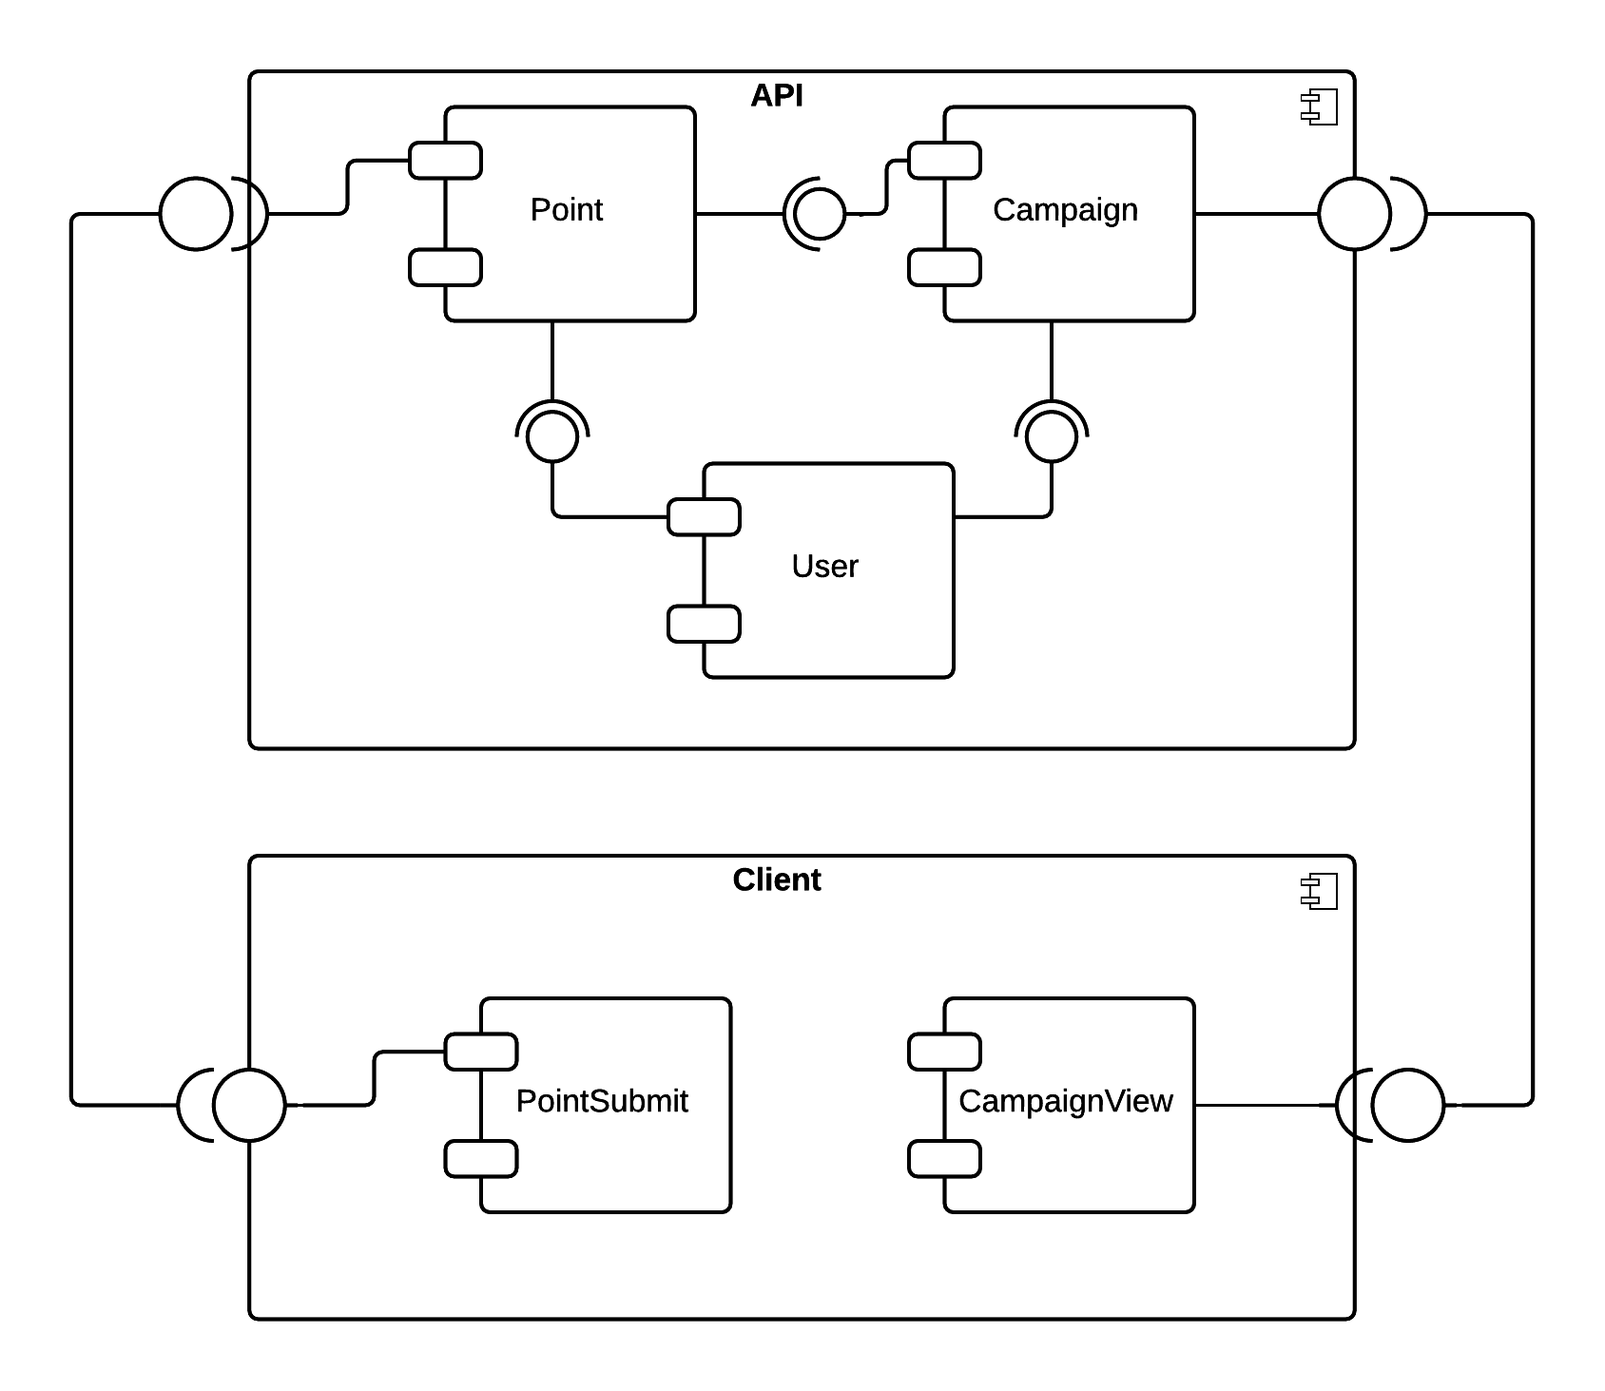
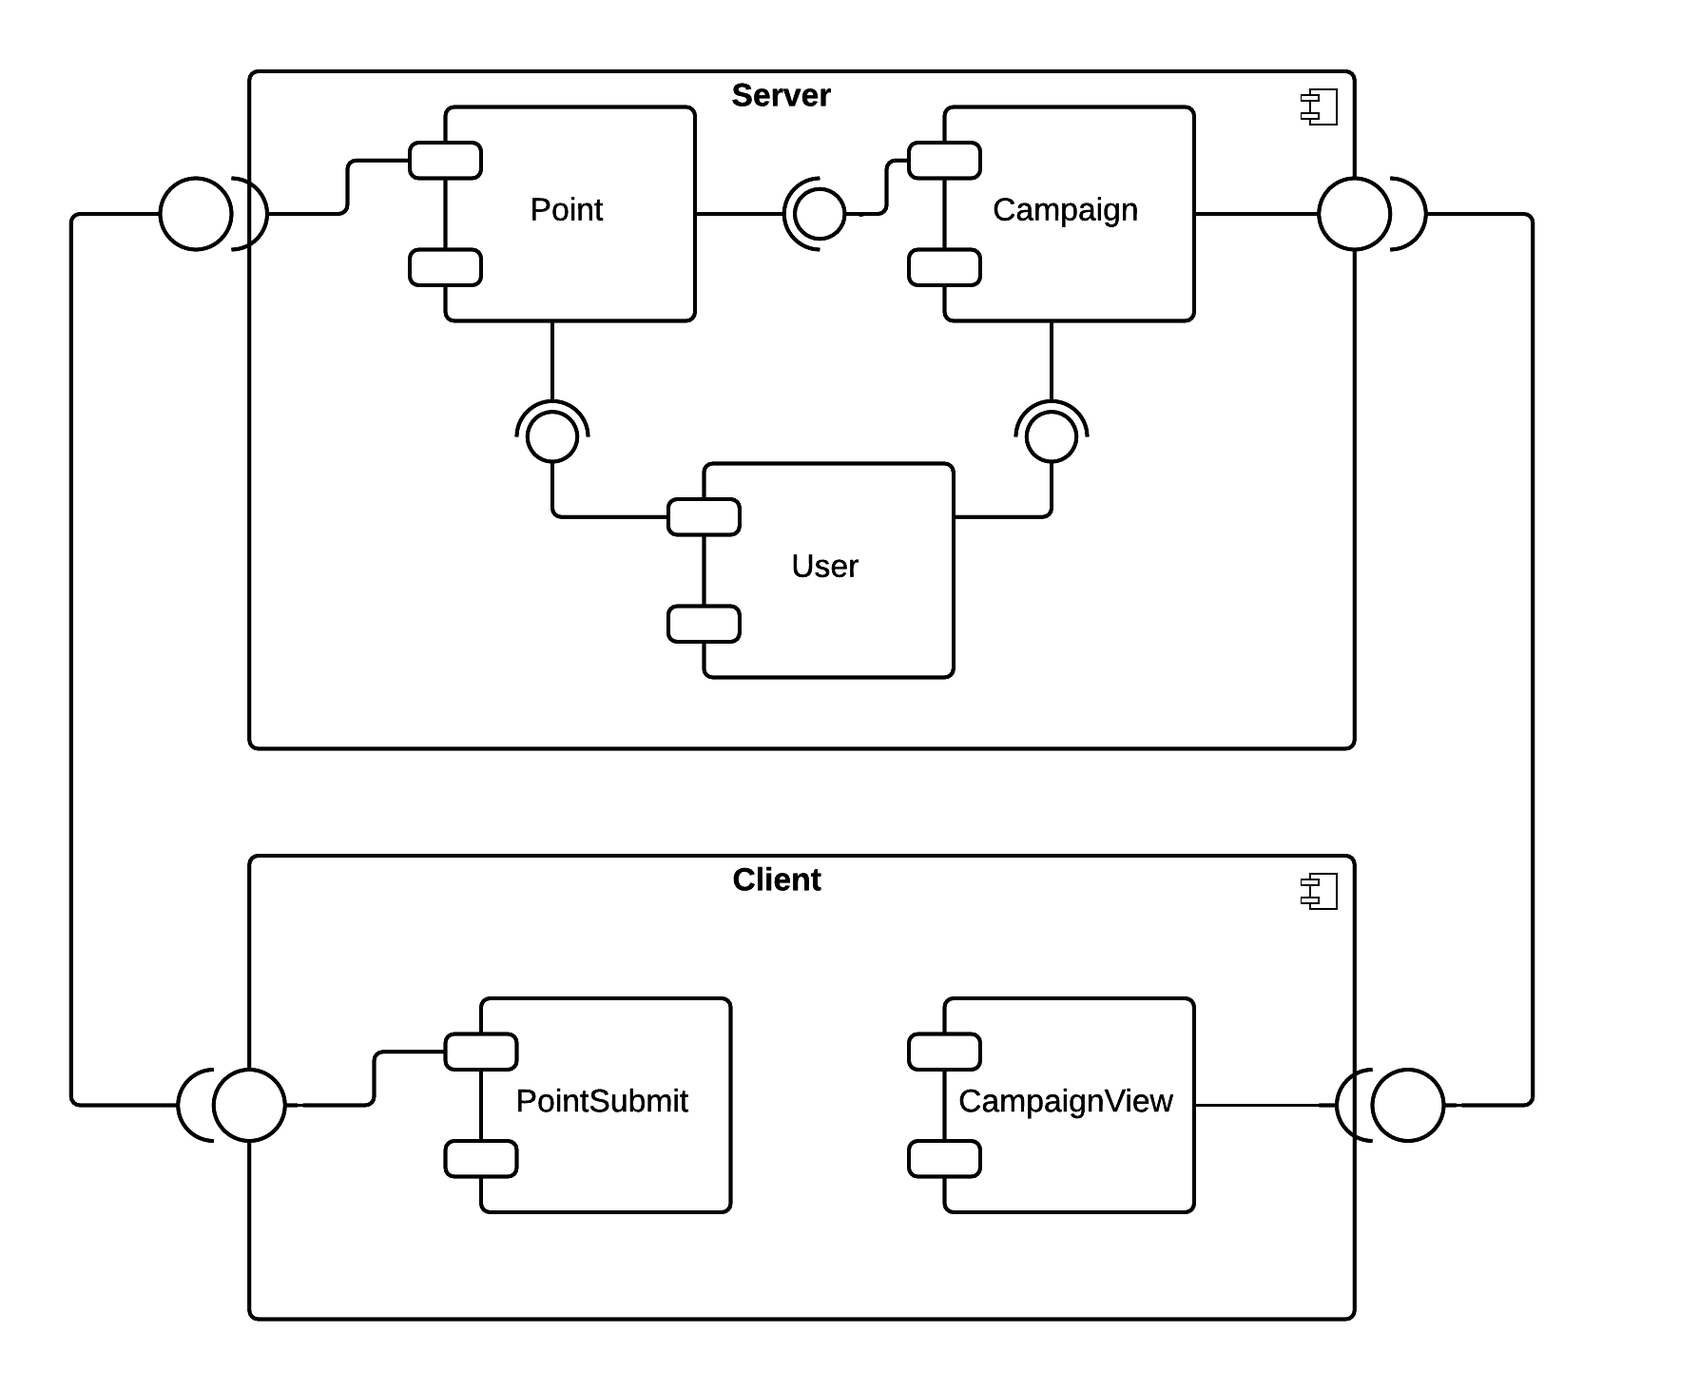
More dissertation writing

diff --git a/doc/Croud.tex b/doc/Croud.tex
@@ -16,8 +16,7 @@
 %\usepackage[margin=1.5in]{geometry}
 \usepackage{todonotes}
 
-\let\oldsection\section
-\renewcommand\section{\clearpage\oldsection}
+\newcommand\ssection{\clearpage\section}
 
 \newcommand{\pitem}[1]{
 	\item{\textbf{#1}}
@@ -32,8 +31,11 @@
 	\maketitle
 
 	\tableofcontents
+	\listoffigures
+	\listoftables
+	\listoflistings
 
-	\section*{Abstract}
+	\ssection*{Abstract}
 	\label{sec:summary}
 		Geographical data collection is a commonly-repeated task in scientific research, political campaigning, land administration and humanitarian projects. At the moment, there are a number of solutions for organisations wishing to go about this type of data collection, from using existing frameworks to commissioning bespoke software. However, these either require significant technical knowledge; are overly generic and are not specifically suited to collecting geographic point data; or are expensive to implement.
 
@@ -43,7 +45,7 @@
 
 		In evaluating the framework, it is shown that it could be applied to collecting data on potholes just as easily as it could be used to help volunteers map out crisis-prone areas of the world.
 
-	\section{Introduction}
+	\ssection{Introduction}
 	\label{sec:introduction}
 		\subsection{Problem}
 		Data collection is a vital and very common task in scientific research and beyond. Computer science, as well as often having internal data gathering requirements of its own, has a part to play in the wider scientific community by providing tools to make the process more accurate, wide-reaching and time-efficient. As is often the case, the need for research tools has historically driven the development of powerful and influential technologies\cite{haggerty_spinoff_1991}. Perhaps the most indicative example of this is the internet: preceded by \emph{ARPANET} over which the first messages were sent between the \emph{University of California, Los Angeles} and the \emph{Stanford Research Institute} in 1969\cite{_arpanet_????}. The first nodes on these early networks were in universities, for whom the ability to send ``electronic mail'' revolutionised the ability to collaborate on research and share information\cite{benfield_internet-based_2006}. Indeed, the internet could be considered computer science's greatest gift to the gathering of data due to the mass and effortless communication available to scientists all over the world\cite{benfield_internet-based_2006}. Of course, the internet is just a transport medium and the technologies built on top have also been of great assistance to scientists: networked email in 1971\cite{_first_????}; the \emph{Hypertext Transfer Protocol} and \emph{World Wide Web} in 1989\cite{_http_????}; and the omni-present wireless internet that is currently available over cell towers.
@@ -93,12 +95,12 @@
 		In the field of CSCW, the categorisation of work is often imagined as ``four quadrants''\cite{johansen_groupware:_1988} separated by the work's distribution over space and time: same place, same time; same place, different time; different time, same place; and different time, different place. This can be applied to crowdsourcing to assist in categorising these specific forms of CSCW as showin in Table~\ref{tab:quad}\cite{erickson_geocentric_2010}.
 
 		\begin{table}[ht]
-			\begin{tabular}{ | l || l | l | }
+			\begin{tabularx}{\textwidth}{ | l || X | X | }
 				\hline
 				                        & \textbf{Same Place}            & \textbf{Different Place} \\ \hhline{|=#=|=|}
 				\textbf{Same Time}      & Audience-centric Crowdsourcing & Event-centric Crowdsourcing \\ \hline
 				\textbf{Different Time} & Geocentric Crowdsourcing       & Global Crowdsourcing \\ \hline
-			\end{tabular}
+			\end{tabularx}
 			\caption{Four quadrant model applied to crowdsourcing\cite{erickson_geocentric_2010}}
 			\label{tab:quad}
 		\end{table}
@@ -211,7 +213,7 @@
 			\end{itemize}
 		\end{enumerate}
 
-	\section{Framework Design}
+	\ssection{Framework Design}
 	\label{sec:architecture}
 		As a result of the analysis and background above, a framework could be produced to provide sufficient functionality to replace the bespoke implementations so far. The framework would need to consist primarily of an API that can receive submitted data, perform all the necessary back-end organisation of that data, and expose a way of interacting with inbuilt data. On top of that, it will be necessary to construct a number of front-ends to interact with the API - a web-based and a mobile application.
 
@@ -221,7 +223,7 @@
 
 		This section contains a detailed and quantifiable list of the requirements for the framework, built from the common functionalities of the analysed projects. To simplify accounting for each requirement in the implementation of the project, each requirement follows a continuous count, despite being split across categories.
 
-		There are three data models around which the framework is based. Firstly, the User is the authenticated account and stable identity for anyone using the service. Although they are structurally the same, there are nonetheless two separate ``attitudes'' of User in the framework - campaign creators and campaign contributors. Throughout this section, where appropriate the requirements for each type will be differentiated with $\star$ for creator and $\dagger$ for contributor.
+		There are three data models around which the framework is based. Firstly, the User is the authenticated account and stable identity for anyone using the service. Although they are structurally the same, there are nonetheless two separate ``attitudes'' of User in the framework - campaign creators and campaign contributors. Throughout this section, where appropriate the requirements for each type will be differentiated with ``$\star$'' for creator and ``$\dagger$'' for contributor.
 
 		Secondly, the Campaign is the name for the metadata around a campaign of data collection. For example, it contains a name for the campaign, a description of the data it is collecting and all other information about the campaign itself.
 
@@ -311,7 +313,7 @@
 			\label{fig:component-diagram}
 		\end{figure}
 
-		In Figure \ref{fig:component-diagram}, the relationship between components in the project is described. The framework follows a server-client architecture.
+		In Figure \ref{fig:component-diagram}, the relationship between components in the project is described. The framework follows a server-client architecture. Each of these systems contain a set of subcomponents described below.
 
 		\subsubsection{Server}
 
@@ -331,6 +333,8 @@
 
 		\subsection{How it works}
 
+		Note that for all of the following sequences, the actions can be carried out on both desktop and mobile using the same steps. This is because the web client can be compiled directly to a mobile application using Apache Cordova\cite{_apache_????}.t
+
 		\subsubsection{Registering}
 		To register, the user follows a link from the home page to a ``Sign up'' form, where they fill information such as their name, required username, email address and password. If the form has been filled in correctly, an account will be created for that user and they will be automatically logged in.
 
@@ -349,7 +353,7 @@
 		\subsubsection{Viewing a Point}
 		When a marker is clicked, a page containing all the information for a Point is displayed. The page contains a map with just the marker visible, and a table of the information submitted along with the co-ordinate. If, for example, the information includes an uploaded picture, the picture will be visible in this table.
 
-	\section{Implementation}
+	\ssection{Implementation}
 	\label{sec:implementation}
 
 		The code is tracked using the \emph{Git} revision control system and is hosted on \emph{Github}. It can be found at \href{http://github.com/gausie/croud}{\nolinkurl{http://github.com/gausie/croud}}. The software is also running and available to be used at \href{http://croud.io}{\nolinkurl{http://croud.io}}.
@@ -377,7 +381,7 @@
 
 		\subsection{Schema}
 
-		As \emph{MongoDB} uses dynamic schemas, these are not necessarily how documents stored in each collection might look. Instead, the schema here is the framework of a model described in JavaScript, and as a result contains some callbacks as values (which would not be valid in plain JSON).
+		As \emph{MongoDB} uses dynamic schemas, these are not necessarily how documents stored in each collection might look. Instead, the schema here is the framework of a model described in JavaScript, and as a result contains some callbacks as values (which would not be valid in plain JSON). In order to avoid repetition, the schemas are not annotated.
 
 		\subsubsection{User}
 
@@ -454,6 +458,8 @@
 }
 		\end{minted}
 
+		This schema for the User model defines: a first and last name; a display name, an email address; a username; a password and salt;  a list of campaign memberships; data to handle social media logins; some data for resetting passwords; and update and creation times for the model.
+
 		\subsubsection{Campaign}
 
 		\begin{minted}[frame=single,fontsize=\scriptsize]{js}
@@ -514,9 +520,12 @@
 }
 		\end{minted}
 
-		The ``fields'' field is a JSON sub-structure built from the data required for each campaign. For example, it could contain a value such as
+		This schema for the Campaign model defines: a name and description for the Campaign; a central location (optimized for MongoDB); a collection of fields; a duration; whether it is private and approval is required; which (if any) field should be used as a marker for Points; the days (if required) after which a Point is marked as stale; the owner; and the date on which it was created.
 
-		\begin{minted}[frame=single,fontsize=\scriptsize]{json}
+		The ``fields'' field is a JSON sub-structure built from the data required for each campaign. For example, a simplified campaign to collect cartographic information in a poorly mapped area could contain a value such as Listing~\ref{lst:campaign-schema-fields}.
+
+		\begin{listing}[H]
+			\begin{minted}[frame=single,fontsize=\scriptsize]{json}
 [
     {
         "options" : [ 
@@ -526,7 +535,7 @@
             }, 
             {
                 "icon" : "search",
-                "name" : "Toll Both"
+                "name" : "Toll Booth"
             }
         ],
         "required" : true,
@@ -539,7 +548,10 @@
         "name" : "Picture"
     }
 ]
-		\end{minted}
+			\end{minted}
+			\caption{These fields would mean a required multiple choice option with the name ``Point of Interest'' and the options ``Water'' and ``Toll Booth''. with ``gamepad'' and ``search'' icons respectively. This would be followed by an optional image field titled ``Picture''.}
+			\label{lst:campaign-schema-fields}
+		\end{listing}
 
 		\subsubsection{Point}
 
@@ -575,20 +587,26 @@
 }
 		\end{minted}
 
-		The ``data'' field is a JSON sub-structure matching the ``fields'' field of the Campaign to which the Point belongs. For example, it could contain a value such as
+		This schema for the Point model defines: the Campaign to which it belongs; its location (optimized for MongoDB); the data contained; whether the point has been approved; the submitter; and the date on which it was created.
 
-		\begin{minted}[frame=single,fontsize=\scriptsize]{json}
+		The ``data'' field is a JSON sub-structure matching the ``fields'' field of the Campaign to which the Point belongs. For example, in submitting to the campaign whose fields are specified in Listing~\ref{lst:campaign-schema-fields}, it could contain a value such as Listing~\ref{lst:point-schema-fields}.
+
+		\begin{listing}[H]
+			\begin{minted}[frame=single,fontsize=\scriptsize]{json}
 {
     "Point of Interest" : {
         "icon" : "gamepad",
         "name" : "Water"
     }
 }
-		\end{minted}
+			\end{minted}
+			\caption{This would mean that a Point had been submitted with the ``Point of Interest'' selected as ``Water''.}
+			\label{lst:point-schema-fields}
+		\end{listing}
 
 		\subsection{Code excerpts}
 
-		This section will contain a few examples of the source code and is not intended to be exhaustive.
+		This section will contain a few examples of the source code and is not intended to be exhaustive. They represent key functionalities across a wide selection of components on both the server and client side codebase.
 
 		\subsubsection{Server}
 
@@ -741,42 +759,45 @@ exports.hasAuthorization = function(req, res, next) {
 	\paragraph{Standards-compliant mobile-ready client}
 	The client is written in a fully standards-compliant fashion and the display completely adapts to mobile. This means that the web version is viewable on a wide range of browsers, usable by users with accessibility requirements such as the use of a screen-reader. It also means that the web version can be viewed on mobiles and tablets with a fluid experience. This is useful also in packaging the client as a native mobile application, as very little changes need to be made and so changes to the codebase can be quickly expanded across the whole ecosystem.
 
-	\section{Evaluation}
+	\ssection{Evaluation}
 	\label{sec:evaluation}
 
-		In evaluating the framework, it is necessary to test two aspects of the framework's usage - the creation of Campaigns, and the submission of points. In this section, a number of key features will be tested by using the software and providing screenshots and comments. First, the client will be used to create two Campaigns that are as distinct as possible in usage scenarios. These campaigns will be
+		The primary goal of this framework is to simplify the creation of geographic crowdsourcing campaigns for non-technical users. Therefore, in evaluating the framework, it is necessary to test the usability of the of the software. Ideally this would be done inviting different campaigners to use the framework, but that wider testing is not within the scope of this project. Instead, two very different campaigns were created and a walkthrough of the steps requires is provided. These two campaigns will be:
 
 		\begin{enumerate}[label=\Alph*.]
-			\item A humanitarian Campaign similar to the \emph{Missing Maps} project. The campaign is designed to collect time-sensitive information about the physical environment, and as a result will have a time limit after which a Point will be marked stale. It will be a private campaign open only to invited members.
-			\item A simple ``fix this pothole'' style project where users casually submit images with location data. The campaign will be open to all to join.
+			\item \label{itm:humanitarian-campaign} A humanitarian Campaign similar to the \emph{Missing Maps} project. The campaign is designed to collect time-sensitive information about the physical environment, and as a result will have a time limit after which a Point will be marked stale. It will be a private campaign open only to invited members.
+			\item  \label{itm:pothole-campaign} A simple ``fix this pothole'' style project where users casually submit images with location data. The campaign will be open to all to join.
 		\end{enumerate}
 
 		Using a second account, the second Campaign will be joined and a point will be submitted.
 
-		\subsection{Preparing users}
+		\subsection{Campaign~\ref{itm:humanitarian-campaign} - Humanitarian}
+		\label{sec:humanitarian-campaign}
 
-		\begin{figure}[ht]
+		\subsubsection{Registering users}
+
+		\begin{figure}[H]
 			\centering
 			\fbox{\includegraphics[width=4in]{eval-prep-1}}
 			\caption{Landing page}
 			\label{fig:eval-prep-1}
 		\end{figure}
 
-		\begin{figure}[ht]
+		\begin{figure}[H]
 			\centering
 			\fbox{\includegraphics[width=4in]{eval-prep-2}}
 			\caption{Registration page.}
 			\label{fig:eval-prep-2}
 		\end{figure}
 
-		\begin{figure}[ht]
+		\begin{figure}[H]
 			\centering
 			\fbox{\includegraphics[width=4in]{eval-prep-3}}
 			\caption{Registering \texttt{test1} user.}
 			\label{fig:eval-prep-3}
 		\end{figure}
 
-		\begin{figure}[ht]
+		\begin{figure}[H]
 			\centering
 			\fbox{\includegraphics[width=4in]{eval-prep-4}}
 			\caption{Registering \texttt{test2} user.}
@@ -784,30 +805,30 @@ exports.hasAuthorization = function(req, res, next) {
 		\end{figure}
 
 		\FloatBarrier
-		\subsection{Creating Campaign A}
+		\subsubsection{Creating the Campaign}
 
-		\begin{figure}[ht]
+		\begin{figure}[H]
 			\centering
 			\fbox{\includegraphics[width=4in]{eval-ca-1}}
 			\caption{Navigating to Campaign creation page.}
 			\label{fig:eval-ca-1}
 		\end{figure}
 
-		\begin{figure}[ht]
+		\begin{figure}[H]
 			\centering
 			\fbox{\includegraphics[width=4in]{eval-ca-2}}
 			\caption{Initial state of Campaign creation form.}
 			\label{fig:eval-ca-2}
 		\end{figure}
 
-		\begin{figure}[ht]
+		\begin{figure}[H]
 			\centering
 			\fbox{\includegraphics[width=4in]{eval-ca-3}}
 			\caption{Campaign A form completed. Hampstead Heath is having a humanitarian crisis.}
 			\label{fig:eval-ca-3}
 		\end{figure}
 
-		\begin{figure}[ht]
+		\begin{figure}[H]
 			\centering
 			\fbox{\includegraphics[width=4in]{eval-ca-5}}
 			\caption{Configuration of options for multiple choice field.}
@@ -815,14 +836,14 @@ exports.hasAuthorization = function(req, res, next) {
 		\end{figure}
 
 
-		\begin{figure}[ht]
+		\begin{figure}[H]
 			\centering
 			\fbox{\includegraphics[width=4in]{eval-ca-6}}
 			\caption{Adding \texttt{test2} to the private Campaign.}
 			\label{fig:eval-ca-6}
 		\end{figure}
 
-		\begin{figure}[ht]
+		\begin{figure}[H]
 			\centering
 			\fbox{\includegraphics[width=4in]{eval-ca-4}}
 			\caption{Campaign A ready to be used.}
@@ -830,47 +851,57 @@ exports.hasAuthorization = function(req, res, next) {
 		\end{figure}
 
 		\FloatBarrier
-		\subsection{Creating Campaign B}
 
-		\begin{figure}[ht]
-			\centering
-			\fbox{\includegraphics[width=4in]{eval-cb-1}}
-			\caption{Campaign B form completed.}
-			\label{fig:eval-cb-1}
-		\end{figure}
+		\subsection{Submitting data}
 
-		\FloatBarrier
-		\subsection{Submitting Points to Campaign A}
-
-		\begin{figure}[ht]
+		\begin{figure}[H]
 			\centering
 			\fbox{\includegraphics[width=4in]{eval-cb-1}}
 			\caption{Selecting Campaign A (``Humanitarian Campaign'').}
 			\label{fig:eval-submita-1}
 		\end{figure}
 
-		\begin{figure}[ht]
+		\begin{figure}[H]
 			\centering
 			\fbox{\includegraphics[width=4in]{eval-submita-2}}
 			\caption{Filled in the Point information.}
 			\label{fig:eval-submita-2}
 		\end{figure}
 
-		\begin{figure}[ht]
+		\begin{figure}[H]
 			\centering
 			\fbox{\includegraphics[width=4in]{eval-submita-3}}
 			\caption{Campaign A now appears with a ``fire'' symbol where the point was placed.}
 			\label{fig:eval-submita-3}
 		\end{figure}
 
-		\begin{figure}[ht]
+		\begin{figure}[H]
 			\centering
 			\fbox{\includegraphics[width=4in]{eval-submita-4}}
 			\caption{Clicking the ``fire'' symbol reveals this full information page for that Point.}
 			\label{fig:eval-submita-4}
 		\end{figure}
 
-	\section{Conclusion}
+		\subsection{Campaign~\ref{itm:pothole-campaign} - Pothole Fixing}
+		\label{sec:pothole-campaign}
+
+		Any steps that are identical to that of Section~\ref{sec:humanitarian-campaign} are omitted.
+
+		\subsubsection{Creating the Campaign}
+
+		\begin{figure}[H]
+			\centering
+			\fbox{\includegraphics[width=4in]{eval-cb-1}}
+			\caption{Campaign B form completed.}
+			\label{fig:eval-cb-1}
+		\end{figure}
+
+		\subsubsection{Submitting data}
+
+		\FloatBarrier
+
+
+	\ssection{Conclusion}
 	\label{sec:conclusion}
 
 		Based on the evaluation in the previous section, it is clear that the framework can indeed be used to start a breadth of different crowdsourcing campaigns with the same interface. The campaigns were quick to create and were quick for users to upload data.
@@ -892,12 +923,13 @@ exports.hasAuthorization = function(req, res, next) {
 			\pitem{More relevant icon set for multiple choice field} At the moment the framework uses \emph{FontAwesome} because it has a large set of icons and is already loaded on the site for iconographic use. However, when projects like \emph{Maki} by \emph{Mapbox} for ``point of interest icon sets'' get bigger and include more icons, the system could easily be switched to use them.
 		\end{itemize}
 
+	\clearpage
 	\bibliographystyle{Croud}
 	\bibliography{Croud}
 
 	\clearpage
 	\begin{appendices}
-	\oldsection{API Documentation}
+	\section{API Documentation}
 	\label{sec:api-docs}
 	\end{appendices}
 
